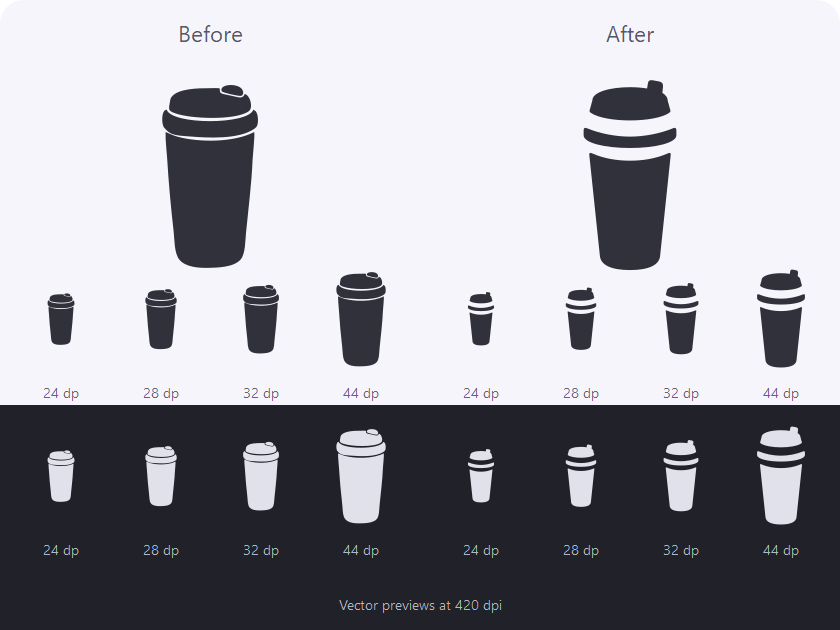
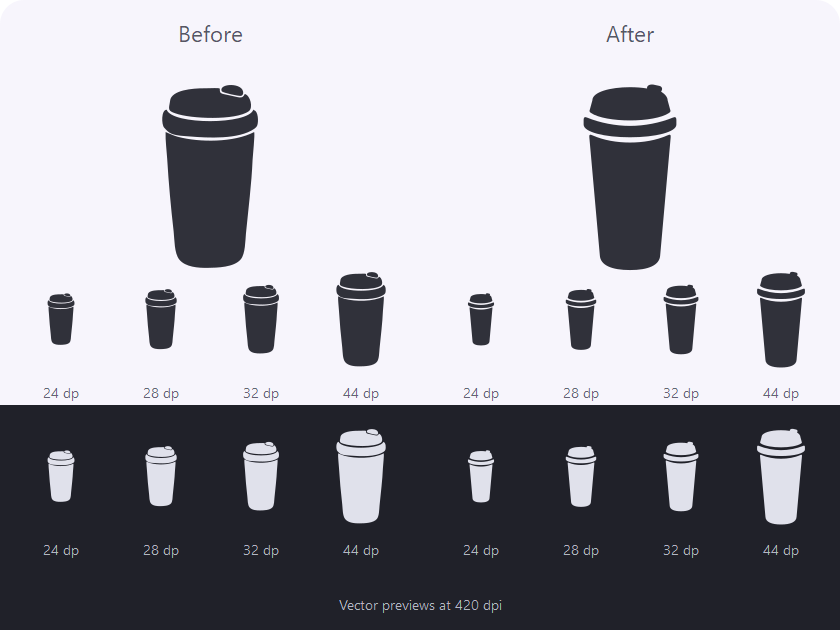
Soften travel cup lid and narrow its seams

diff --git a/docs/brewing/design/2026-10-02-visual-guides/vessel-icons.js b/docs/brewing/design/2026-10-02-visual-guides/vessel-icons.js
@@ -132,9 +132,9 @@ const VesselIcons = {
     "M636,830c0,.66,0,1.32,0,2c-76.29,42.882-159.113,41.194-244.316,40.016c-56.006-.774-124.114-.365-175.651-24.721C106.044,795.316,101.147,698.04,97.331,592.076c-2.115-58.731-1.562-117.553-1.638-176.313c-.067-51.675-12.43-158.982,24.745-196.325c83.17-83.549,356.184-73.376,465.651-52.626c40.85,7.744,91.53,20.482,121.231,51.81c3.023,3.189,8.68,8.936,8.68,13.378c.66,0,1.32,0,2,0c6.01,11.101,10.991,22.788,12.64,35.397c1.131,8.653-1.376,24.502,2.832,31.751c.174,.281,.349,.562,.528,.852c4.05,3.634,26.415-1.185,32.683-1.318c33.577-.708,61.713,2.009,91.073,20.014C860.92,320.637,868,324.28,868,328c9.652,4.253,16.646,13.519,23.387,21.296c51.121,58.967,44.018,171.971,17.653,240.506c-12.357,32.122-34.973,63.635-60.049,87.086c-21.705,20.297-51.684,39.086-79.79,48.932c-16.755,5.869-43.104,9.341-56.471,20.439c-7.098,5.893-9.947,14.62-15.085,22.002C688.114,781.955,653.105,830,636,830ZM157,256c-7.301,21.903,13.951,30.047,29.652,37.852c97.602,48.517,311.064,42.052,415.477,13.929c17.825-4.801,67.129-19.867,69.375-41.711c2.286-22.238-34.37-35.198-51.053-41.046c-103.338-36.229-285.747-33.157-391.298-5.779C205.187,225.461,171.678,234.585,157,256ZM820,592c3.718,0,9.964-14.316,11.86-18.207c24.941-51.205,35.699-158.973-20.349-193.739c-14.576-9.041-33.995-11.464-50.474-6.941c-14.38,3.947-27.647,13.374-32.345,28.049c-6.343,19.812-1.832,53.992-1.821,75.373c.027,52.619-4.393,109.745,.731,161.867c.267,2.719,1.613,5.421,3.471,7.393c10.641,11.301,34.794-2.39,44.821-8.833C785.838,630.571,820,603.801,820,592Z"
   ],
   "travel": [
-    "M340 166 C340 128 421 106 512 106 C540 106 566 108 590 112 L594 88 Q596 72 614 74 L646 80 Q664 84 663 102 L660 132 C676 142 684 154 684 166 L696 210 Q700 218 690 224 C658 246 585 258 512 258 C439 258 366 246 334 224 Q324 218 328 210 Z",
-    "M316 294 C374 318 447 332 512 332 C577 332 650 318 708 294 Q724 287 724 304 L724 326 C724 360 630 384 512 384 C394 384 300 360 300 326 L300 304 Q300 287 316 294 Z",
-    "M340 409 C392 432 452 442 512 442 C572 442 632 432 684 409 Q700 401 698 417 L650 874 C648 920 596 942 512 942 C428 942 376 920 374 874 L326 417 Q324 401 340 409 Z"
+    "M340 166 C340 128 421 106 512 106 C540 106 566 108 590 112 C588 100 600 92 618 94 L646 100 C660 103 662 116 654 126 C674 139 684 153 684 166 L696 210 Q700 218 690 224 C658 246 585 258 512 258 C439 258 366 246 334 224 Q324 218 328 210 Z",
+    "M316 245 C374 269 447 283 512 283 C577 283 650 269 708 245 Q724 238 724 255 L724 277 C724 311 630 335 512 335 C394 335 300 311 300 277 L300 255 Q300 238 316 245 Z",
+    "M340 326 C392 349 452 359 512 359 C572 359 632 349 684 326 Q700 318 698 334 L650 874 C648 920 596 942 512 942 C428 942 376 920 374 874 L326 334 Q324 318 340 326 Z"
   ],
   "takeaway": [
     "M628,133c7.091-10.636,.122-21.617,12-31c14.297-11.293,91.011-3.084,101.746,11.961c8.464,11.862,4.53,28.995,8.322,42.159c2.791,9.689,13.696,14.937,18.118,24.578c5.603,12.217,4.605,25.89,9.542,37.875c3.735,9.066,12.336,13.097,17.599,20.919c8.219,12.214,16.354,48.645,8.582,61.935c-12.045,20.598-64.178,30.783-86.249,35.374c-37.733,7.848-76.423,12.979-114.898,15.363c-71.427,4.427-144.013,5.591-215.355-.92c-33.923-3.095-153.258-15.8-169.165-47.139c-8.969-17.67,4.957-54.951,17.182-68.666c7.134-8.003,17.492-13.142,22.946-22.395c10.044-17.039,7.028-36.629,23.396-51.002c41.238-36.212,215.066-28.837,272.248-27.652c15.072,.313,63.271,6.567,73.986-1.39Z",

diff --git a/docs/brewing/design/2026-10-02-visual-guides/assets/cup-icons/travel-refinement-20261006/README.md b/docs/brewing/design/2026-10-02-visual-guides/assets/cup-icons/travel-refinement-20261006/README.md
@@ -4,8 +4,9 @@
 existing filled icon family and its tall, tapered reusable-cup silhouette.
 
 The authored SVG has three smooth filled shapes: a closed cap with a connected
-sip tab, a curved sealing rim, and the cup body. Wider curved gaps separate the
-parts at calculator and settings sizes. No new stroke, color, shadow or body
+sip tab, a curved sealing rim, and the cup body. Following user feedback,
+the gaps are narrower and the sip tab softer, keeping the cup visually joined.
+No new stroke, color, shadow or body
 decoration is introduced.
 
 The original generator image and traced SVG in `../rebuild-20261004/` remain
@@ -27,8 +28,11 @@ shows 24, 28, 32 and 44 dp vector previews at 420 dpi. Reproduce it with this
 folder's `render_comparison.py` and ImageMagick.
 
 Validation passed: all 28 native exports match their selected SVG hashes and
-paths; the other 27 drawable contents are unchanged; debug and Android test APKs
-build. Five existing native checks passed on an isolated API 34 / 420 dpi
-emulator, covering all 28 icons at 24 dp, the calculator at 28 dp, and settings
-at 32 dp in light, dark and narrow layouts with larger text. The resulting
-screenshots were visually reviewed. This establishes emulator rendering.
+paths; the other 27 drawable contents are unchanged. The closer seams were
+reviewed in 24–44 dp vector previews, and the debug APK builds.
+
+The preceding wider-gap revision passed five existing native checks on an
+isolated API 34 / 420 dpi emulator, covering all 28 icons at 24 dp, the calculator
+at 28 dp, and settings at 32 dp in light, dark and narrow layouts with larger text. The resulting
+screenshots were visually reviewed. Those emulator checks have not been rerun
+for the closer-seam revision.

diff --git a/CHANGELOG.md b/CHANGELOG.md
@@ -78,8 +78,8 @@ and this project adheres to [Semantic Versioning](https://semver.org/spec/v2.0.0
 
 ### Changed
 
-- **Clearer travel cup icon** — smoother lid and body shapes with wider gaps
-  between the cap, sealing rim and cup, so the details remain clear at small sizes.
+- **Clearer travel cup icon** — smoother lid and body shapes with subtle,
+  even seams between the cap, sealing rim and cup.
 - **Simpler cup preset settings** — clear cup rows and a labeled Add preset action,
   with calculator visibility in the same card and reset in its menu. Decorative
   color dots and the unused color picker are removed; saved cup amounts stay intact.
